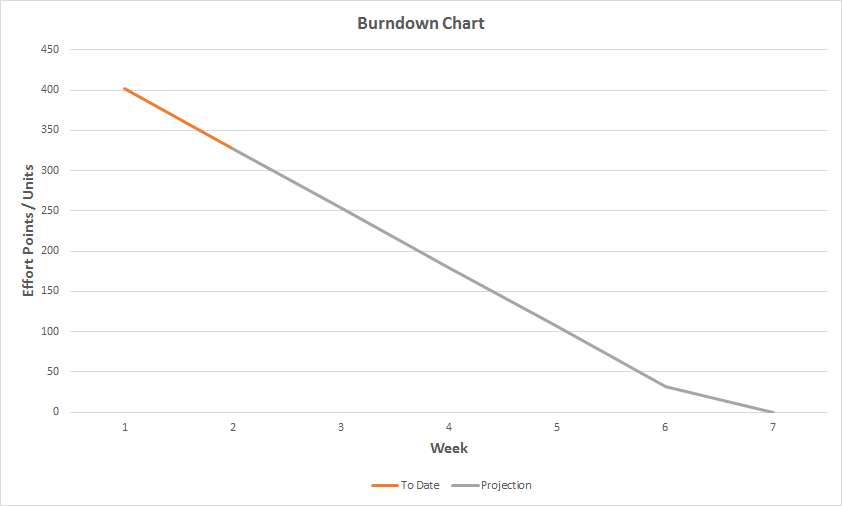
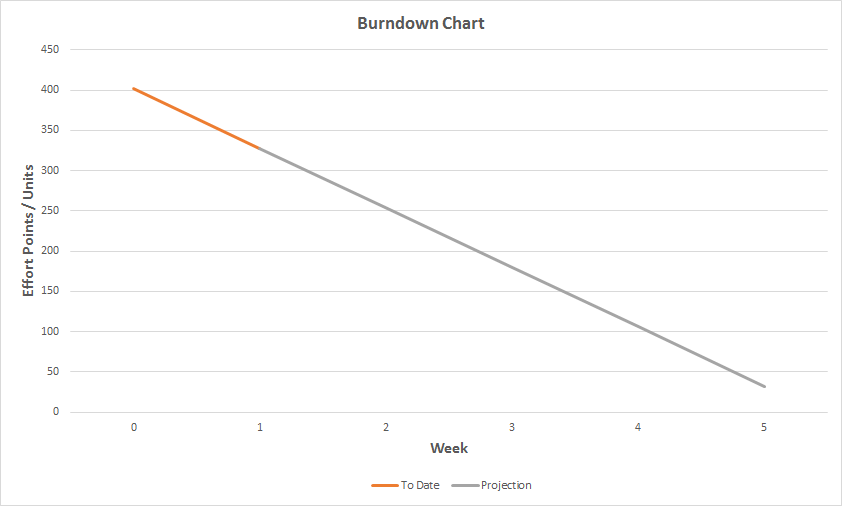
Fixed burndown chart, added lists of done and backlog to report.

diff --git a/views/ProjectReport.html b/views/ProjectReport.html
@@ -30,12 +30,40 @@
         
         <p>
             <span>This sprint, we completed 15 stories.</span>
+            <ul>
+                <li>Add event list to homepage</li>
+                <li>Give new event from required fields</li>
+                <li>Make event creation page</li>
+                <li>Add links in footer</li>
+                <li>Do not show events that have already passed</li>
+                <li>Make Project Report available online</li>
+                <li>Add Bootstrap</li>
+                <li>Add Bootstrap CSS</li>
+                <li>Make each event on homepage have a clickable title</li>
+                <li>Add headshots to About page</li>
+                <li>Add names and nicknames to About page</li>
+                <li>Add team logo</li>
+                <li>Make HTML version of project report pretty, or at least readable</li>
+                <li>Create Sprint Report 2 (content)</li>
+                <li>Submit Sprint Report 2</li>
+            </ul>
         </p>
         
         <span>Product Backlog</span>
         
         <p>
-            <span>The current backlog consists of 10 items, weighing in at an estimated 328 units of effort.</span>
+            <span>The current backlog consists of 9 items, weighing in at an estimated 328 units of effort.</span>
+            <ul>
+                <li>Add event detail pages</li>
+                <li>Add RSVP functionality</li>
+                <li>Event Page: if Form submission NOT VALID I am taken back the form and the errors are shown on the form.</li>
+                <li>Event Page: If form submission VALID: Redirect to detail page</li>
+                <li>Event Page: Input button for form</li>
+                <li>Event Page: Validate Form Submissions</li>
+                <li>Search for Events using a GET request</li>
+                <li>API: Retrieve Key Event Objects in JSON</li>
+                <li>Every page has HTML5 header and footer elements.</li>
+            </ul>
         </p>
     </p>
 
@@ -52,6 +80,7 @@
             <li>Since it was fall break, and two of us were out of town most of the week, coordination became significantly more difficult.</li>
             <li>We noticed that we needed a simpler, more direct way to communicate in general, which we fixed by creating a slack group.</li>
             <li>Due to our vastly different levels of tech know-how, effort estimation proved to be tricky. Ultimately, we decided that we would not choose different amounts of effort depending on who the task was assigned to, but rather are OK with someone's velocity per week being 20 and someone else's being 5, i.e. that effort estimation does not reflect actual time spent and that's OK.</li>
+            <li>Our current trajectory implies we will not finish in time.</li>
         </ul>
         
         <span>Roadblocks:</span>
@@ -63,7 +92,8 @@
     <p>
         <span>Before the next report we hope to:</span>
         <ul>
-            <li>Since we completed 74 units of work this sprint, we hope to keep up this pace for the upcoming week.</li>
+            <li>Since we completed 74 units of work this sprint, we hope to keep up this pace for the upcoming week at the very least.</li>
+            <li>As we currently are not on track to complete everything by the end, we may try to speed up a little.</li>
         </ul>
     </p>
 {% endblock %}
